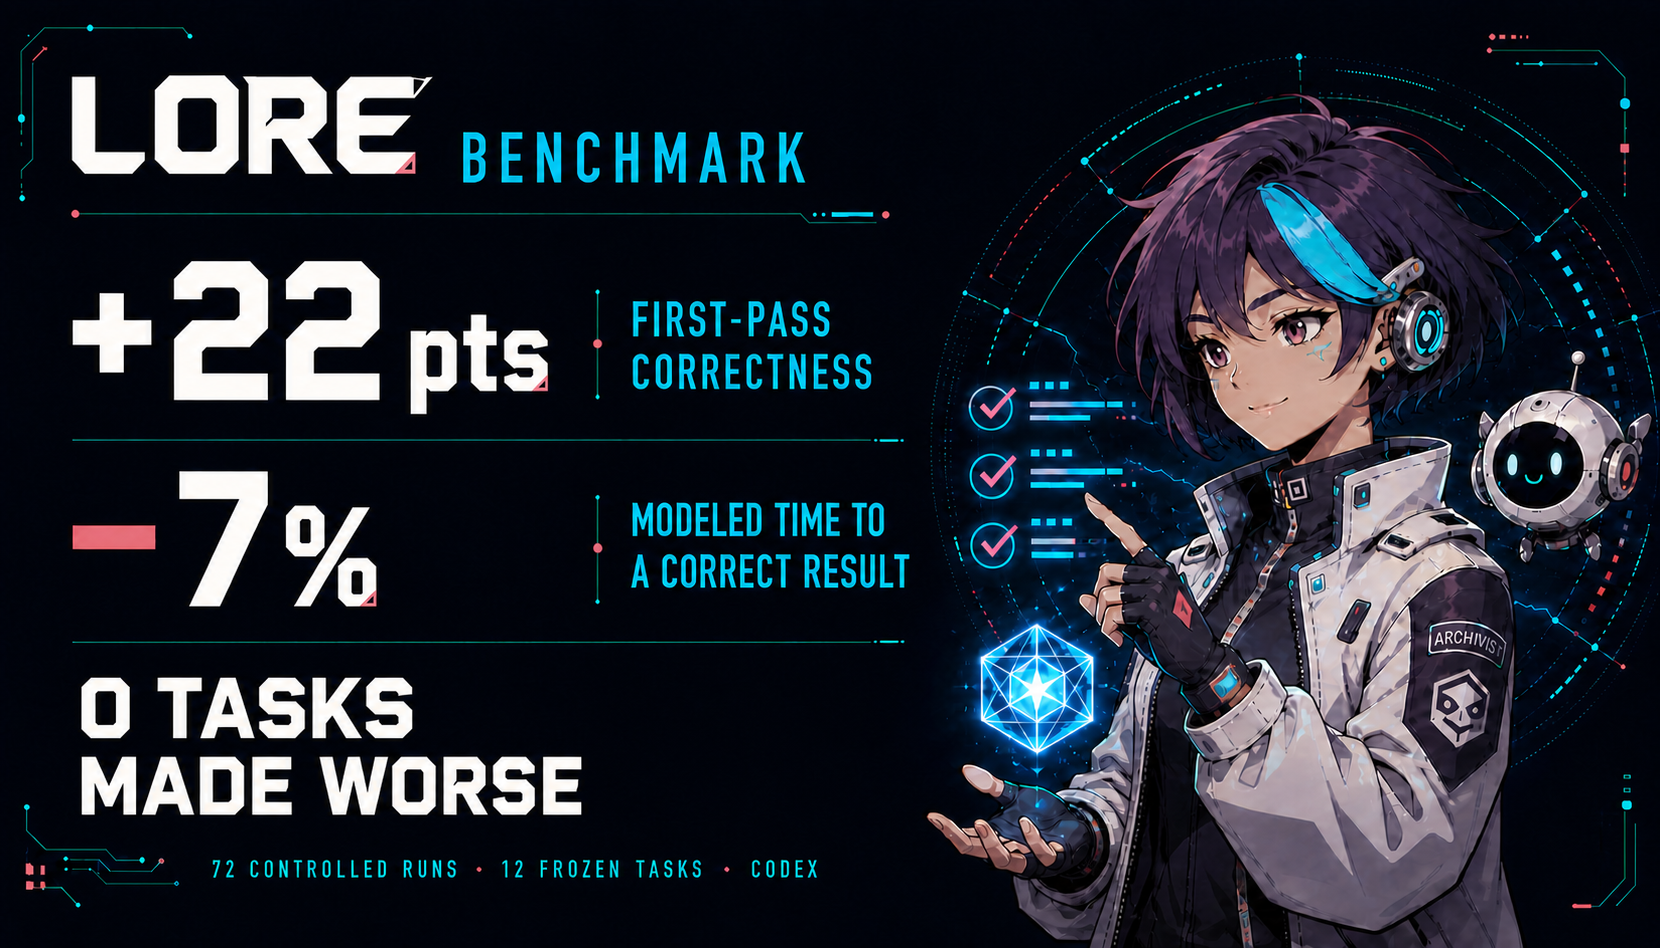
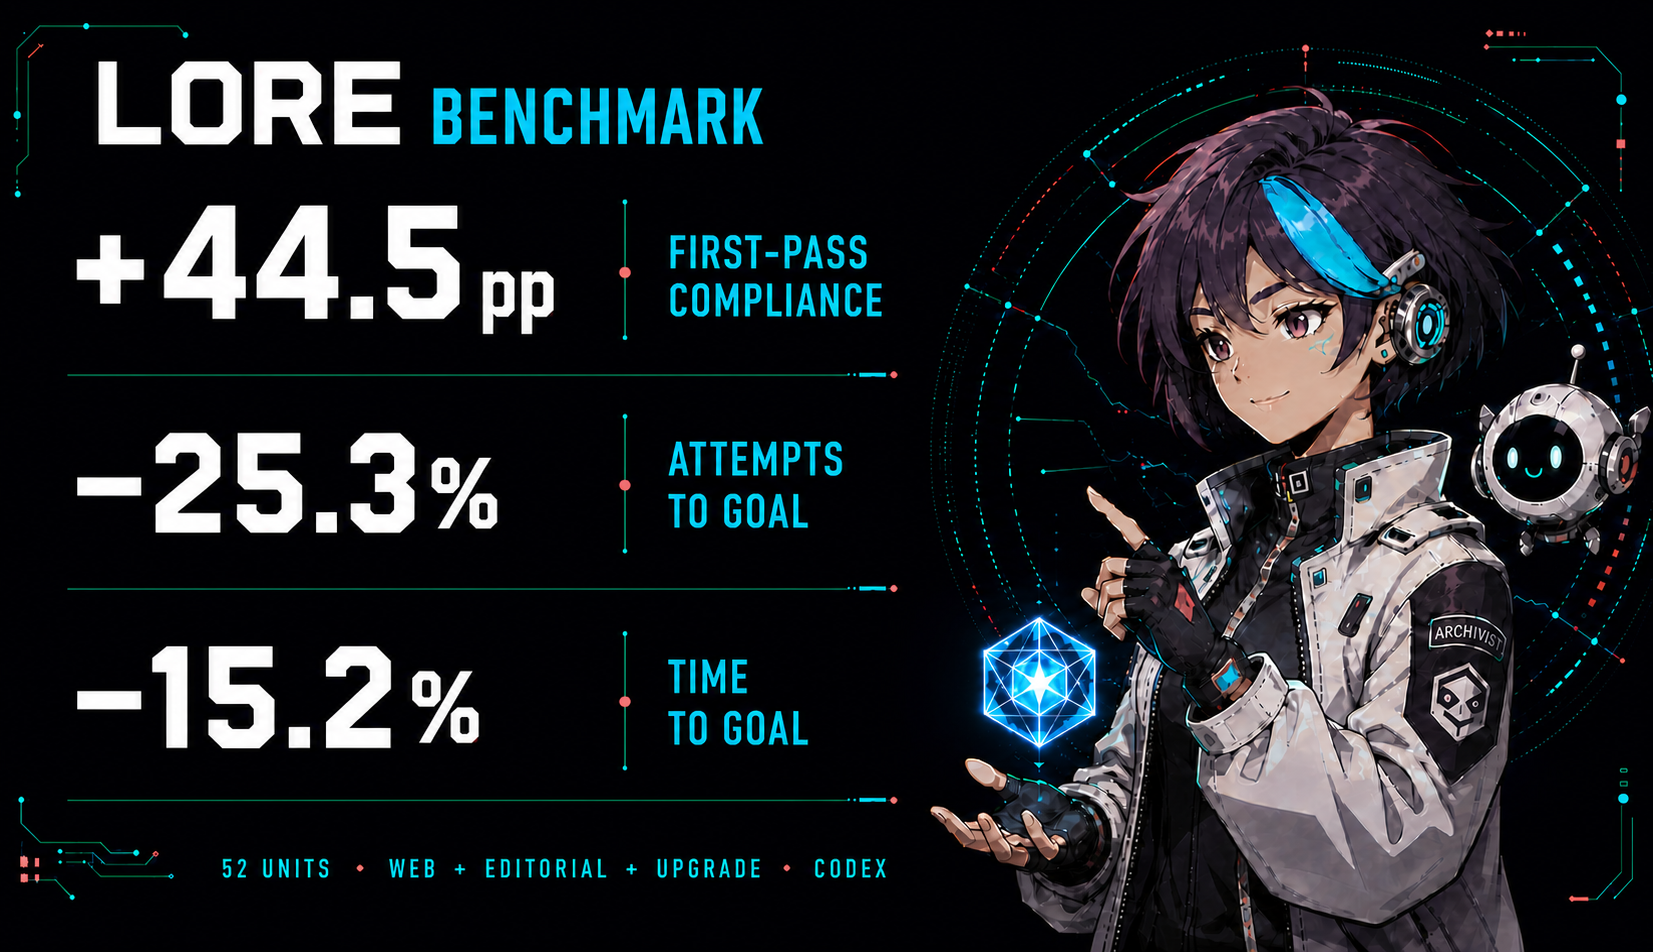
docs: refresh benchmark impact graphics

diff --git a/README.md b/README.md
@@ -54,12 +54,12 @@
       <td align="right"><strong>52/52 (100%; +25.0 pp)</strong></td>
     </tr>
     <tr>
-      <td>Observed attempts to the final result</td>
+      <td>Observed attempts to goal completion</td>
       <td align="right">1.44</td>
       <td align="right"><strong>1.08 (−25.3%)</strong></td>
     </tr>
     <tr>
-      <td>Observed time to the final result</td>
+      <td>Observed time to goal completion</td>
       <td align="right">68.7 s</td>
       <td align="right"><strong>58.2 s (−15.2%)</strong></td>
     </tr>
@@ -568,8 +568,8 @@ All eight skills follow the same rules:
   <tbody>
     <tr><td>First-pass compliance</td><td align="right">51.3%</td><td align="right"><strong>95.8%</strong></td><td align="right"><strong>+44.5 pp</strong></td></tr>
     <tr><td>Goals reached with at most one correction</td><td align="right">39/52 (75.0%)</td><td align="right"><strong>52/52 (100%)</strong></td><td align="right"><strong>+25.0 pp</strong></td></tr>
-    <tr><td>Observed attempts to the final result</td><td align="right">1.44</td><td align="right"><strong>1.08</strong></td><td align="right"><strong>−25.3%</strong></td></tr>
-    <tr><td>Observed time to the final result</td><td align="right">68.7 s</td><td align="right"><strong>58.2 s</strong></td><td align="right"><strong>−15.2%</strong></td></tr>
+    <tr><td>Observed attempts to goal completion</td><td align="right">1.44</td><td align="right"><strong>1.08</strong></td><td align="right"><strong>−25.3%</strong></td></tr>
+    <tr><td>Observed time to goal completion</td><td align="right">68.7 s</td><td align="right"><strong>58.2 s</strong></td><td align="right"><strong>−15.2%</strong></td></tr>
   </tbody>
 </table>
 
@@ -790,12 +790,12 @@ Questions, cases that contradict ours, a Lore that came out weird? The [reposito
       <td align="right"><strong>52/52 (100%; +25,0 pp)</strong></td>
     </tr>
     <tr>
-      <td>Intentos observados hasta el resultado final</td>
+      <td>Intentos observados hasta completar la meta</td>
       <td align="right">1,44</td>
       <td align="right"><strong>1,08 (−25,3%)</strong></td>
     </tr>
     <tr>
-      <td>Tiempo observado hasta el resultado final</td>
+      <td>Tiempo observado hasta completar la meta</td>
       <td align="right">68,7 s</td>
       <td align="right"><strong>58,2 s (−15,2%)</strong></td>
     </tr>
@@ -1282,8 +1282,8 @@ Cada nota minada recibe una marca con fecha y destino, **incluidas las que no pr
   <tbody>
     <tr><td>Cumplimiento al primer intento</td><td align="right">51,3%</td><td align="right"><strong>95,8%</strong></td><td align="right"><strong>+44,5 pp</strong></td></tr>
     <tr><td>Metas alcanzadas con hasta una corrección</td><td align="right">39/52 (75,0%)</td><td align="right"><strong>52/52 (100%)</strong></td><td align="right"><strong>+25,0 pp</strong></td></tr>
-    <tr><td>Intentos observados hasta el resultado final</td><td align="right">1,44</td><td align="right"><strong>1,08</strong></td><td align="right"><strong>−25,3%</strong></td></tr>
-    <tr><td>Tiempo observado hasta el resultado final</td><td align="right">68,7 s</td><td align="right"><strong>58,2 s</strong></td><td align="right"><strong>−15,2%</strong></td></tr>
+    <tr><td>Intentos observados hasta completar la meta</td><td align="right">1,44</td><td align="right"><strong>1,08</strong></td><td align="right"><strong>−25,3%</strong></td></tr>
+    <tr><td>Tiempo observado hasta completar la meta</td><td align="right">68,7 s</td><td align="right"><strong>58,2 s</strong></td><td align="right"><strong>−15,2%</strong></td></tr>
   </tbody>
 </table>
 
